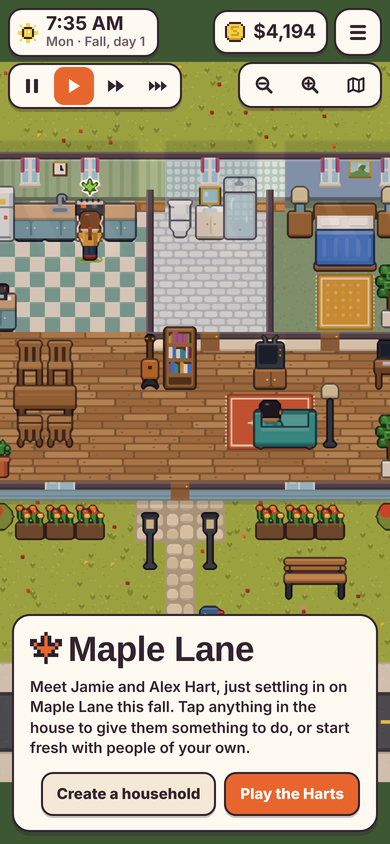
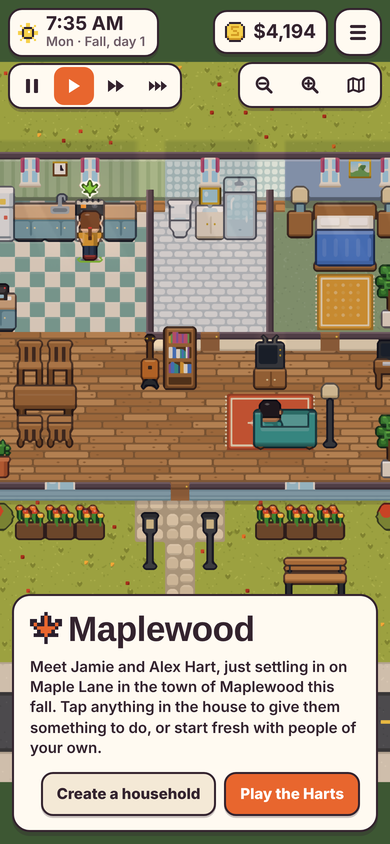
Rename the game to Maplewood
Maple Lane sounded like a single street. The game is now Maplewood, and the
Harts' sample town carries that name too. Maple Lane stays as their street,
and the save keys keep the old name so existing saves still load.

Claude-Session: https://claude.ai/code/session_01Tt9GMcT7aR2jmQn3bLrTLW

Changed region(s): [[0.0308, 0.6777, 0.9846, 0.8934], [0.1846, 0.1848, 0.2462, 0.2464]]

diff --git a/src/07_ui.js b/src/07_ui.js
@@ -193,7 +193,7 @@ const UI={dirty:true,tab:'mood',open:false,t:0,toasts:[],mq:[],casSt:null,
    if(x==='sell'){const v=sellGoods(1);toast(`Sold everything for ${money(v)}`,'gardening');this.closeModal();}
    if(x==='job'){this.closeModal();this.careers(s);}if(x==='bills'){payBills();this.closeModal();}};},
  menu(){const fw=G.freeWill,cl=CLOUD.ok?'Saved to your account and this device':'Saved on this device';
-  this.modal(`<h2>Maple Lane</h2><p class="small">${esc(cl)}. The game also saves every game hour.</p>
+  this.modal(`<h2>Maplewood</h2><p class="small">${esc(cl)}. The game also saves every game hour.</p>
   <div class="sec">Sound</div><div class="line" style="display:flex;gap:8px;flex-wrap:wrap"><button class="btn sm ${G.settings.music?'primary':''}" data-x="music">Music ${G.settings.music?'on':'off'}</button><button class="btn sm ${G.settings.sfx?'primary':''}" data-x="sfx">Sounds ${G.settings.sfx?'on':'off'}</button></div>${G.settings.music&&MUS.track?`<div class="row">${ico('note',24)}<div class="grow"><span class="lbl">${esc(MUS.T[MUS.track])}</span><div class="small">Now playing</div></div><button class="btn sm" data-x="nextsong">Next song</button></div>`:''}
   <div class="sec">Display</div><div class="line" style="display:flex;gap:8px;flex-wrap:wrap;align-items:center">${GLS.ok?`<button class="btn sm ${R.smooth?'primary':''}" data-x="smooth">Smooth art ${R.smooth?'on':'off'}</button><span class="small">${R.smooth?'Rounded, easy-to-read pixels':'Classic crisp pixels'}</span>`:'<span class="small">Smooth art needs WebGL, which this browser has turned off.</span>'}</div>
   <div class="sec">Free will</div><div style="display:flex;gap:8px;flex-wrap:wrap">${[['full','Everyone'],['others','All but selected'],['off','Off']].map(([k,l])=>`<button class="btn sm ${fw===k?'primary':''}" data-f="${k}">${l}</button>`).join('')}</div>
@@ -220,8 +220,8 @@ const UI={dirty:true,tab:'mood',open:false,t:0,toasts:[],mq:[],casSt:null,
  offerCloud(d){this.queueModal(()=>this.modal(`<h2>Newer save found</h2><p>Your account has a saved game from ${esc(DAYS[wday(d.time)])} ${esc(clockStr(d.time))}, day ${dayOf(d.time)+1}, with ${money(d.money)}. Load it?</p><div class="actions"><button class="btn" id="mn">Keep this one</button><button class="btn primary" id="my">Load it</button></div>`,()=>{}));
   setTimeout(()=>{const y=$('#my'),n=$('#mn');if(y)y.onclick=()=>{loadGame(d);G.loadedAt=d.savedAt;centerHome();this.closeModal();toast('Loaded your saved game','star');};if(n)n.onclick=()=>this.closeModal();},80);},
  welcome(kind){const el=$('#welcome');this.welcomeOn=true;G.paused=true;
-  if(kind==='continue'){const s=household()[0];el.innerHTML=`<h1 class="px">${ico('leaf',32,'',{o:'#e8662e'})}Maple Lane</h1><p>Welcome back to the ${esc(s?s.last:'')} house. It's ${DAYS[wday(G.time)]}, ${clockStr(G.time)}.</p><div class="actions"><button class="btn" id="wn">New household</button><button class="btn primary" id="wp">Continue</button></div>`;}
-  else el.innerHTML=`<h1 class="px">${ico('leaf',32,'',{o:'#e8662e'})}Maple Lane</h1><p>Meet Jamie and Alex Hart, just settling in on Maple Lane this fall. Tap anything in the house to give them something to do, or start fresh with people of your own.</p><div class="actions"><button class="btn" id="wn">Create a household</button><button class="btn primary" id="wp">Play the Harts</button></div>`;
+  if(kind==='continue'){const s=household()[0];el.innerHTML=`<h1 class="px">${ico('leaf',32,'',{o:'#e8662e'})}Maplewood</h1><p>Welcome back to the ${esc(s?s.last:'')} house. It's ${DAYS[wday(G.time)]}, ${clockStr(G.time)}.</p><div class="actions"><button class="btn" id="wn">New household</button><button class="btn primary" id="wp">Continue</button></div>`;}
+  else el.innerHTML=`<h1 class="px">${ico('leaf',32,'',{o:'#e8662e'})}Maplewood</h1><p>Meet Jamie and Alex Hart, just settling in on Maple Lane in the town of Maplewood this fall. Tap anything in the house to give them something to do, or start fresh with people of your own.</p><div class="actions"><button class="btn" id="wn">Create a household</button><button class="btn primary" id="wp">Play the Harts</button></div>`;
   el.classList.remove('hidden');$('#sheet').classList.add('hidden');document.body.classList.add('wel');
   $('#wp').onclick=()=>{AU.init();sfx('good');this.hideWelcome();if(kind!=='continue')TUT.start('harts');};$('#wn').onclick=()=>{AU.init();this.hideWelcome();this.cas('new');};},
  hideWelcome(){this.welcomeOn=false;G.paused=false;document.body.classList.remove('wel');$('#welcome').classList.add('hidden');if(G.mode==='live')$('#sheet').classList.remove('hidden');this.dirty=true;this.layout();

diff --git a/src/07c_tut.js b/src/07c_tut.js
@@ -23,7 +23,7 @@ const CAREER_STEP={i:'trophy',t:'Careers and promotions',b:()=>{const w=househol
  act:['Show career',tutShowCareer],next:true,skip:()=>!household().some(p=>p.job)};
 const TOURS={
  harts:[
-  {i:'leaf',t:'Welcome to Maple Lane',b:s=>`Meet ${esc(s.first)}. The leaf floats over the person you control, and their needs fill the panel at the bottom.`,tg:{sim:1},next:true},
+  {i:'leaf',t:'Welcome to Maplewood',b:s=>`Meet ${esc(s.first)}. The leaf floats over the person you control, and their needs fill the panel at the bottom.`,tg:{sim:1},next:true},
   {i:'hunger',t:'Needs',b:'Six needs drain over time: Hunger, Energy, Bladder, Hygiene, Fun and Social. Green is good and red is urgent. Press and hold a bar to see what it means.',tg:'#sneeds',next:true,done:()=>TUT.tipped},
   {i:'sofa',t:'Give an order',b:'Tap a piece of furniture to see what it does, then pick an action. Try the TV.',tg:{obj:'tv'},done:B=>TUT.orders>B.orders,
    enter:()=>{const o=G.objects.find(o=>o.type==='tv');if(o)centerOn(o.x*T+8,o.y*T+40);}},
@@ -47,7 +47,7 @@ const TOURS={
   {i:'leaf',t:'Move in',b:'Your home has the basics. Tap the leaf to move in and start the clock.',tg:'#modes [data-m="live"]',done:()=>G.mode==='live'&&!G.fresh,skip:()=>!G.fresh},
   JOB_STEP,
   CAREER_STEP,
-  {i:'heart',t:'Enjoy Maple Lane',b:'Bills arrive at the mailbox each Monday. Wave to neighbors walking by to make friends. Press and hold anything to learn more.',next:'Start playing'}],
+  {i:'heart',t:'Enjoy your new life',b:'Bills arrive at the mailbox each Monday. Wave to neighbors walking by to make friends. Press and hold anything to learn more.',next:'Start playing'}],
  movein:[]};
 TOURS.movein=[TOURS.fresh[1],TOURS.fresh[2],TOURS.fresh[4],TOURS.fresh[5],JOB_STEP,CAREER_STEP];
 TOURS.settled=[{i:'home',t:'Welcome home',b:()=>`Your new home is furnished and ready. You have ${money(G.money)} left for upgrades.`,next:true},JOB_STEP,CAREER_STEP,TOURS.harts.find(x=>x.t==='Your town')];

diff --git a/src/00_head.html b/src/00_head.html
@@ -4,13 +4,13 @@
 <meta charset="utf-8">
 <meta name="viewport" content="width=device-width,initial-scale=1,maximum-scale=1,user-scalable=no,viewport-fit=cover">
 <meta name="theme-color" content="#24303a">
-<title>Maple Lane</title>
+<title>Maplewood</title>
 <link rel="preconnect" href="https://fonts.googleapis.com">
 <link rel="preconnect" href="https://fonts.gstatic.com" crossorigin>
 <link href="https://fonts.googleapis.com/css2?family=Nunito:wght@600;700;800;900&family=Pixelify+Sans:wght@500;600;700&display=swap" rel="stylesheet">
 <style>
 /* VOICE occasion: a cozy, toy-like life sim played on a phone
-   IDEA a lifted-roof dollhouse on Maple Lane, lit like a storybook evening
+   IDEA a lifted-roof dollhouse in Maplewood, lit like a storybook evening
    PICTURE the live pixel-art lot fills the screen: house, yard, street, neighbors, lamplight
    COLOUR maple orange #e8662e, sage #5fa64f, warm white panels #fffaf1, plum ink #33232e
    TYPE Pixelify Sans for numbers and headings + Nunito for text
@@ -222,7 +222,7 @@ body.wel #modes,body.wel #portraits,body.wel #queue,body.wel #toasts{display:non
 </head>
 <body>
 <canvas id="gl" aria-hidden="true"></canvas>
-<canvas id="game" aria-label="Maple Lane, a life simulation game"></canvas>
+<canvas id="game" aria-label="Maplewood, a life simulation game"></canvas>
 <div id="ui">
  <div id="top">
   <div class="stack">

diff --git a/src/03b_town.js b/src/03b_town.js
@@ -102,6 +102,7 @@ function genTown(seed){seed=(seed>>>0)||1;const R=mulberry(seed),ri=(a,b)=>a+Mat
   T.lots.push(lot);}}
  // who lives where, and what is for sale
  const lots=shuffle(T.lots.slice());const take=f=>{const i=lots.findIndex(f);return i<0?null:lots.splice(i,1)[0];};
+ if(seed===2611)T.name='Maplewood';
  const hart=take(l=>l.street==='Maple Lane'&&l.face==='s')||take(l=>l.street==='Maple Lane')||lots.shift();hart.kind='hart';hart.tpl=null;
  NEIGHBORS.forEach((n,i)=>{const l=take(l=>!l.lake||i%2)||lots.shift();if(l){l.kind='neighbor';l.owner=i;}});
  for(let i=0;i<9;i++){const l=take(l=>i%3!==0||l.lake||l.park);if(l){l.kind='empty';l.tpl=null;}}

diff --git a/CLAUDE.md b/CLAUDE.md
@@ -1,4 +1,4 @@
-# Working on Maple Lane
+# Working on Maplewood
 
 Read README.md first for what the game is and how to run it. This file covers how the code fits
 together and the rules that keep it working.
@@ -33,7 +33,9 @@ together and the rules that keep it working.
   on load. **Don't change the order or number of RNG calls in `genTown`**, or every existing
   town changes under its saves. Add new random choices after the existing ones, or give them
   their own RNG seeded from the town or lot seed, the way `lotPlanFor` and `lotPrice` do.
-- The sample family, the Harts, always live in town seed 2611 on the `hart` lot (12 Maple Lane).
+- The sample family, the Harts, always live in town seed 2611, named Maplewood after the game,
+  on the `hart` lot at 12 Maple Lane. The game was called Maple Lane at first, so the save key
+  (`mapleLane.save.v1`) and some storage keys keep that name; don't rename them or saves are lost.
 - `lotPlanFor(l, furnished)` builds a lot's floors, walls and objects from `l.seed` and caches
   them in `TOWN.plans` under `id:f` and `id:u`.
 - Prices come from `lotPrice(l, furnished)`. A starter home costs its design's `base` plus

diff --git a/README.md b/README.md
@@ -1,6 +1,6 @@
-# Maple Lane
+# Maplewood
 
-A cozy life sim for phones, in the spirit of The Sims 3, with pixel art and a procedurally
+A cozy life sim for phones (first called Maple Lane), in the spirit of The Sims 3, with pixel art and a procedurally
 generated town. It runs as a single self-contained web page.
 
 <p>
